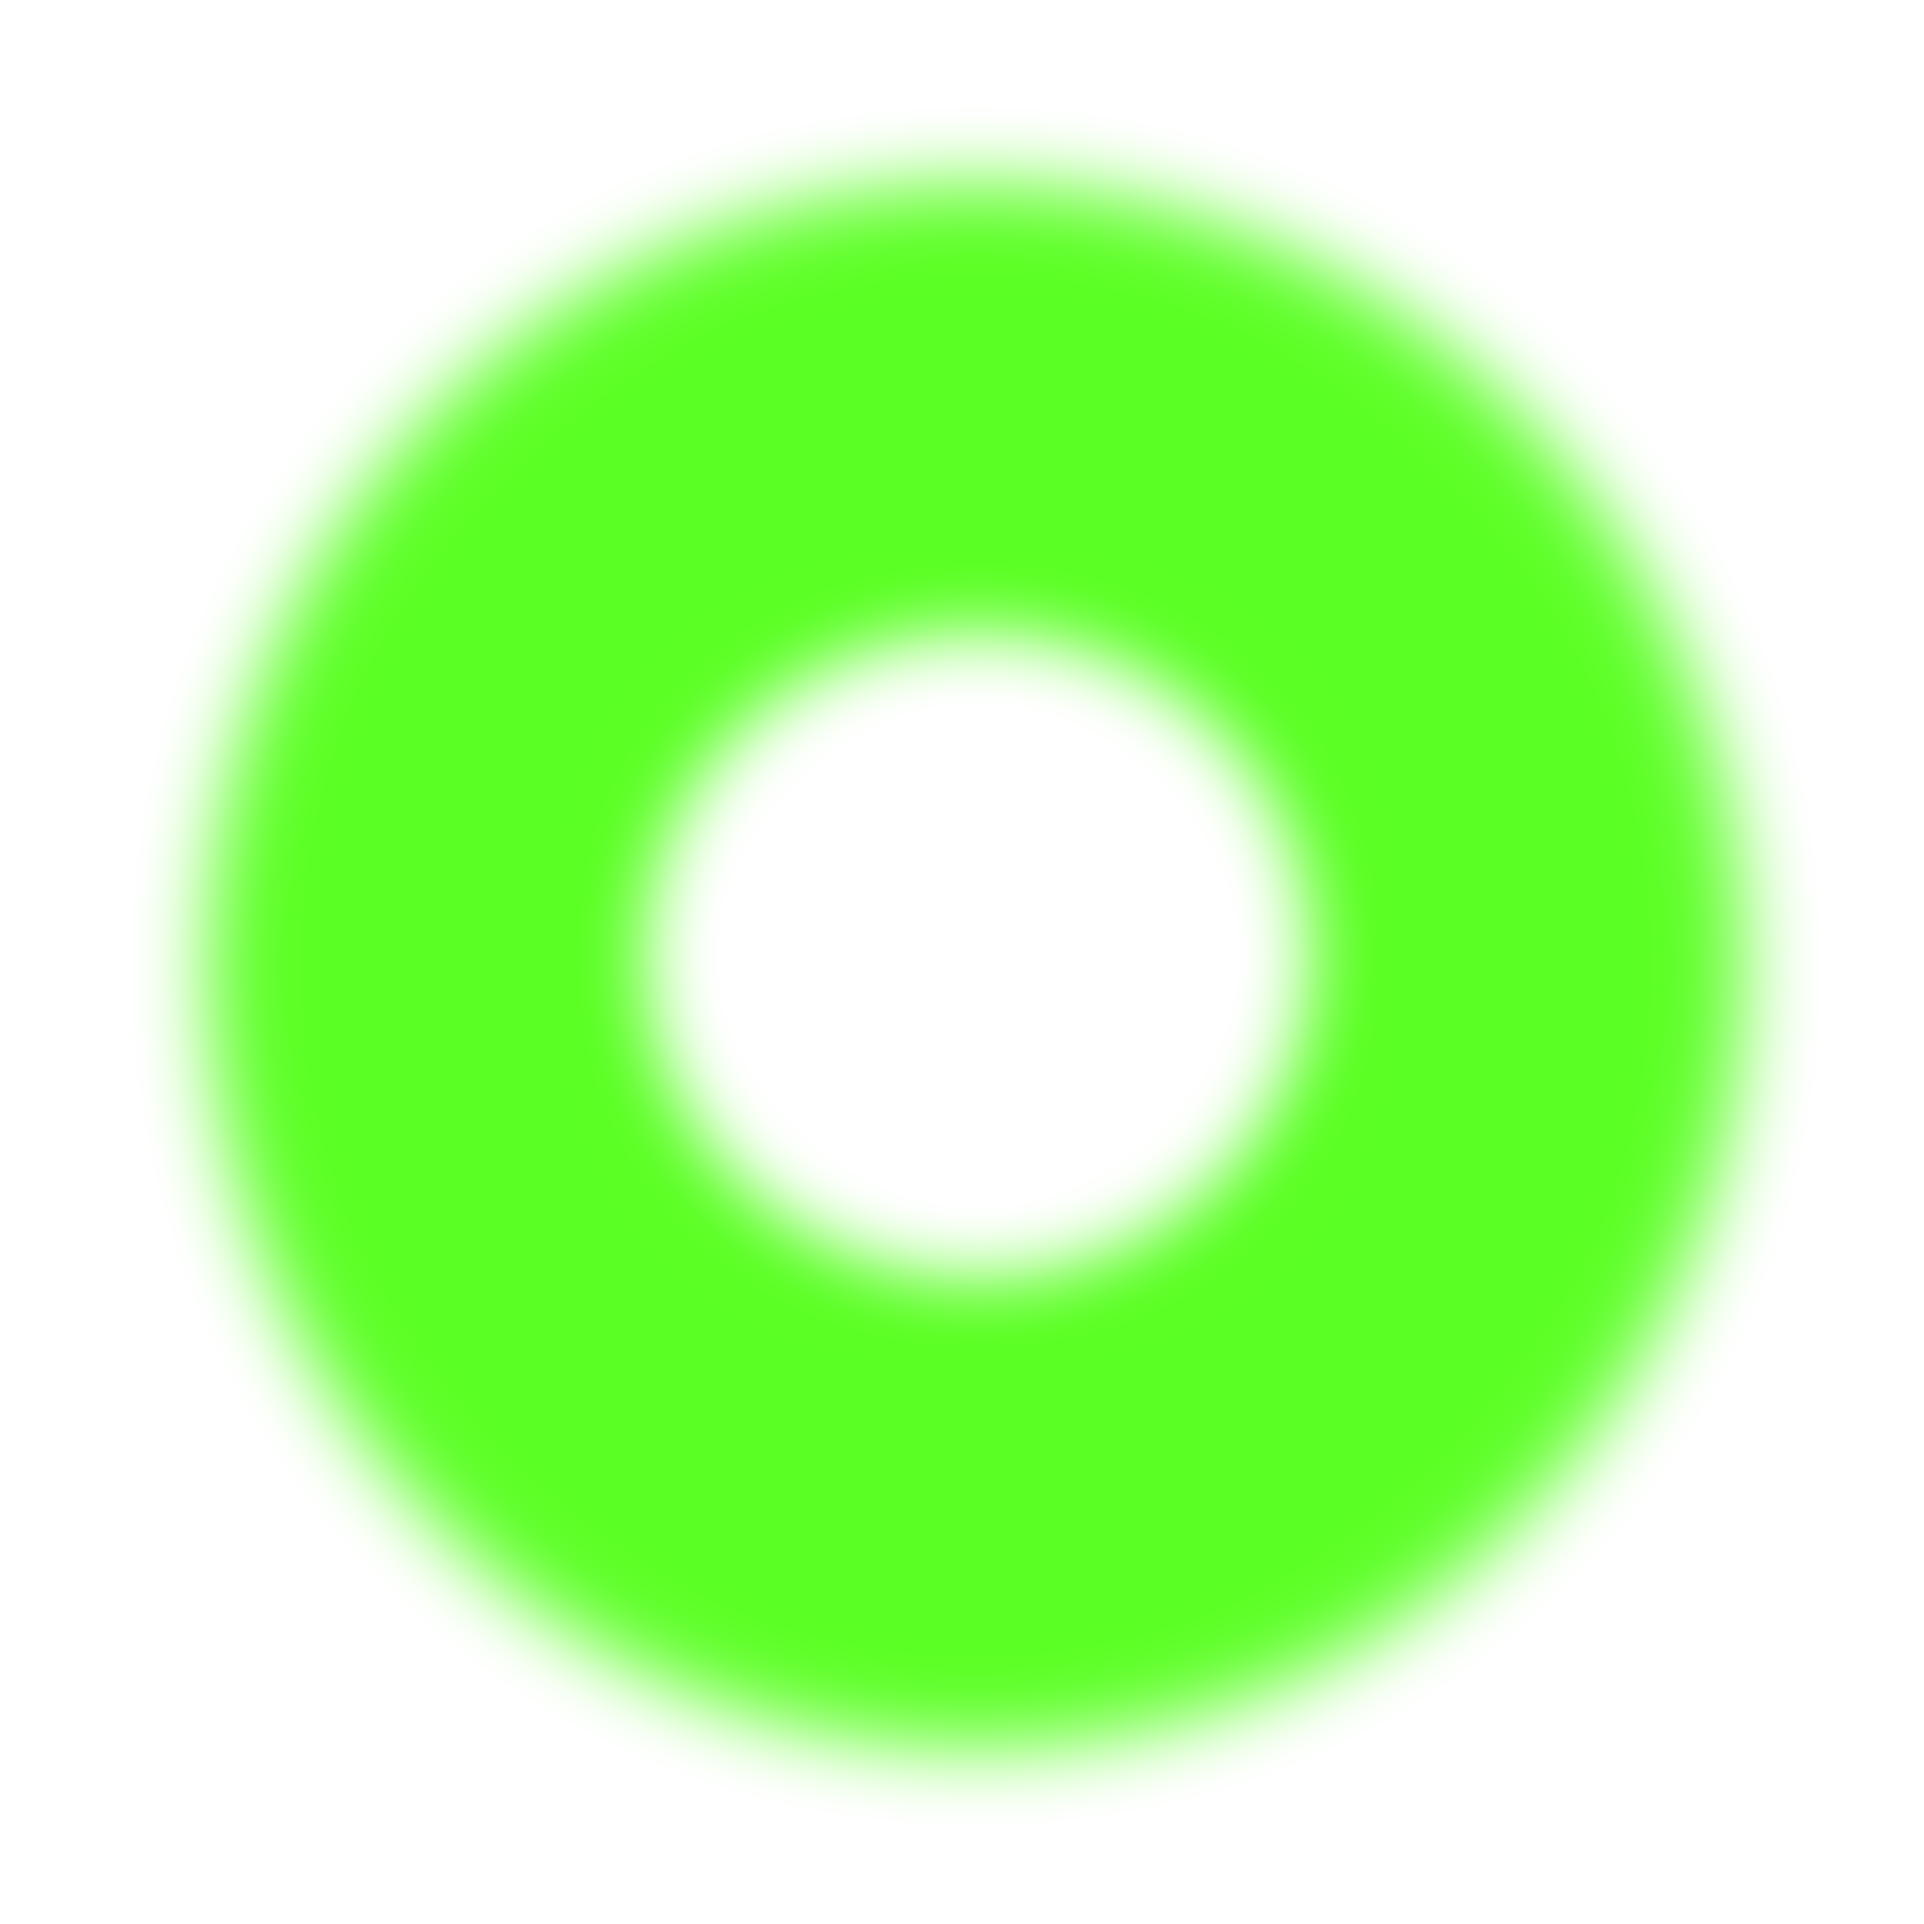
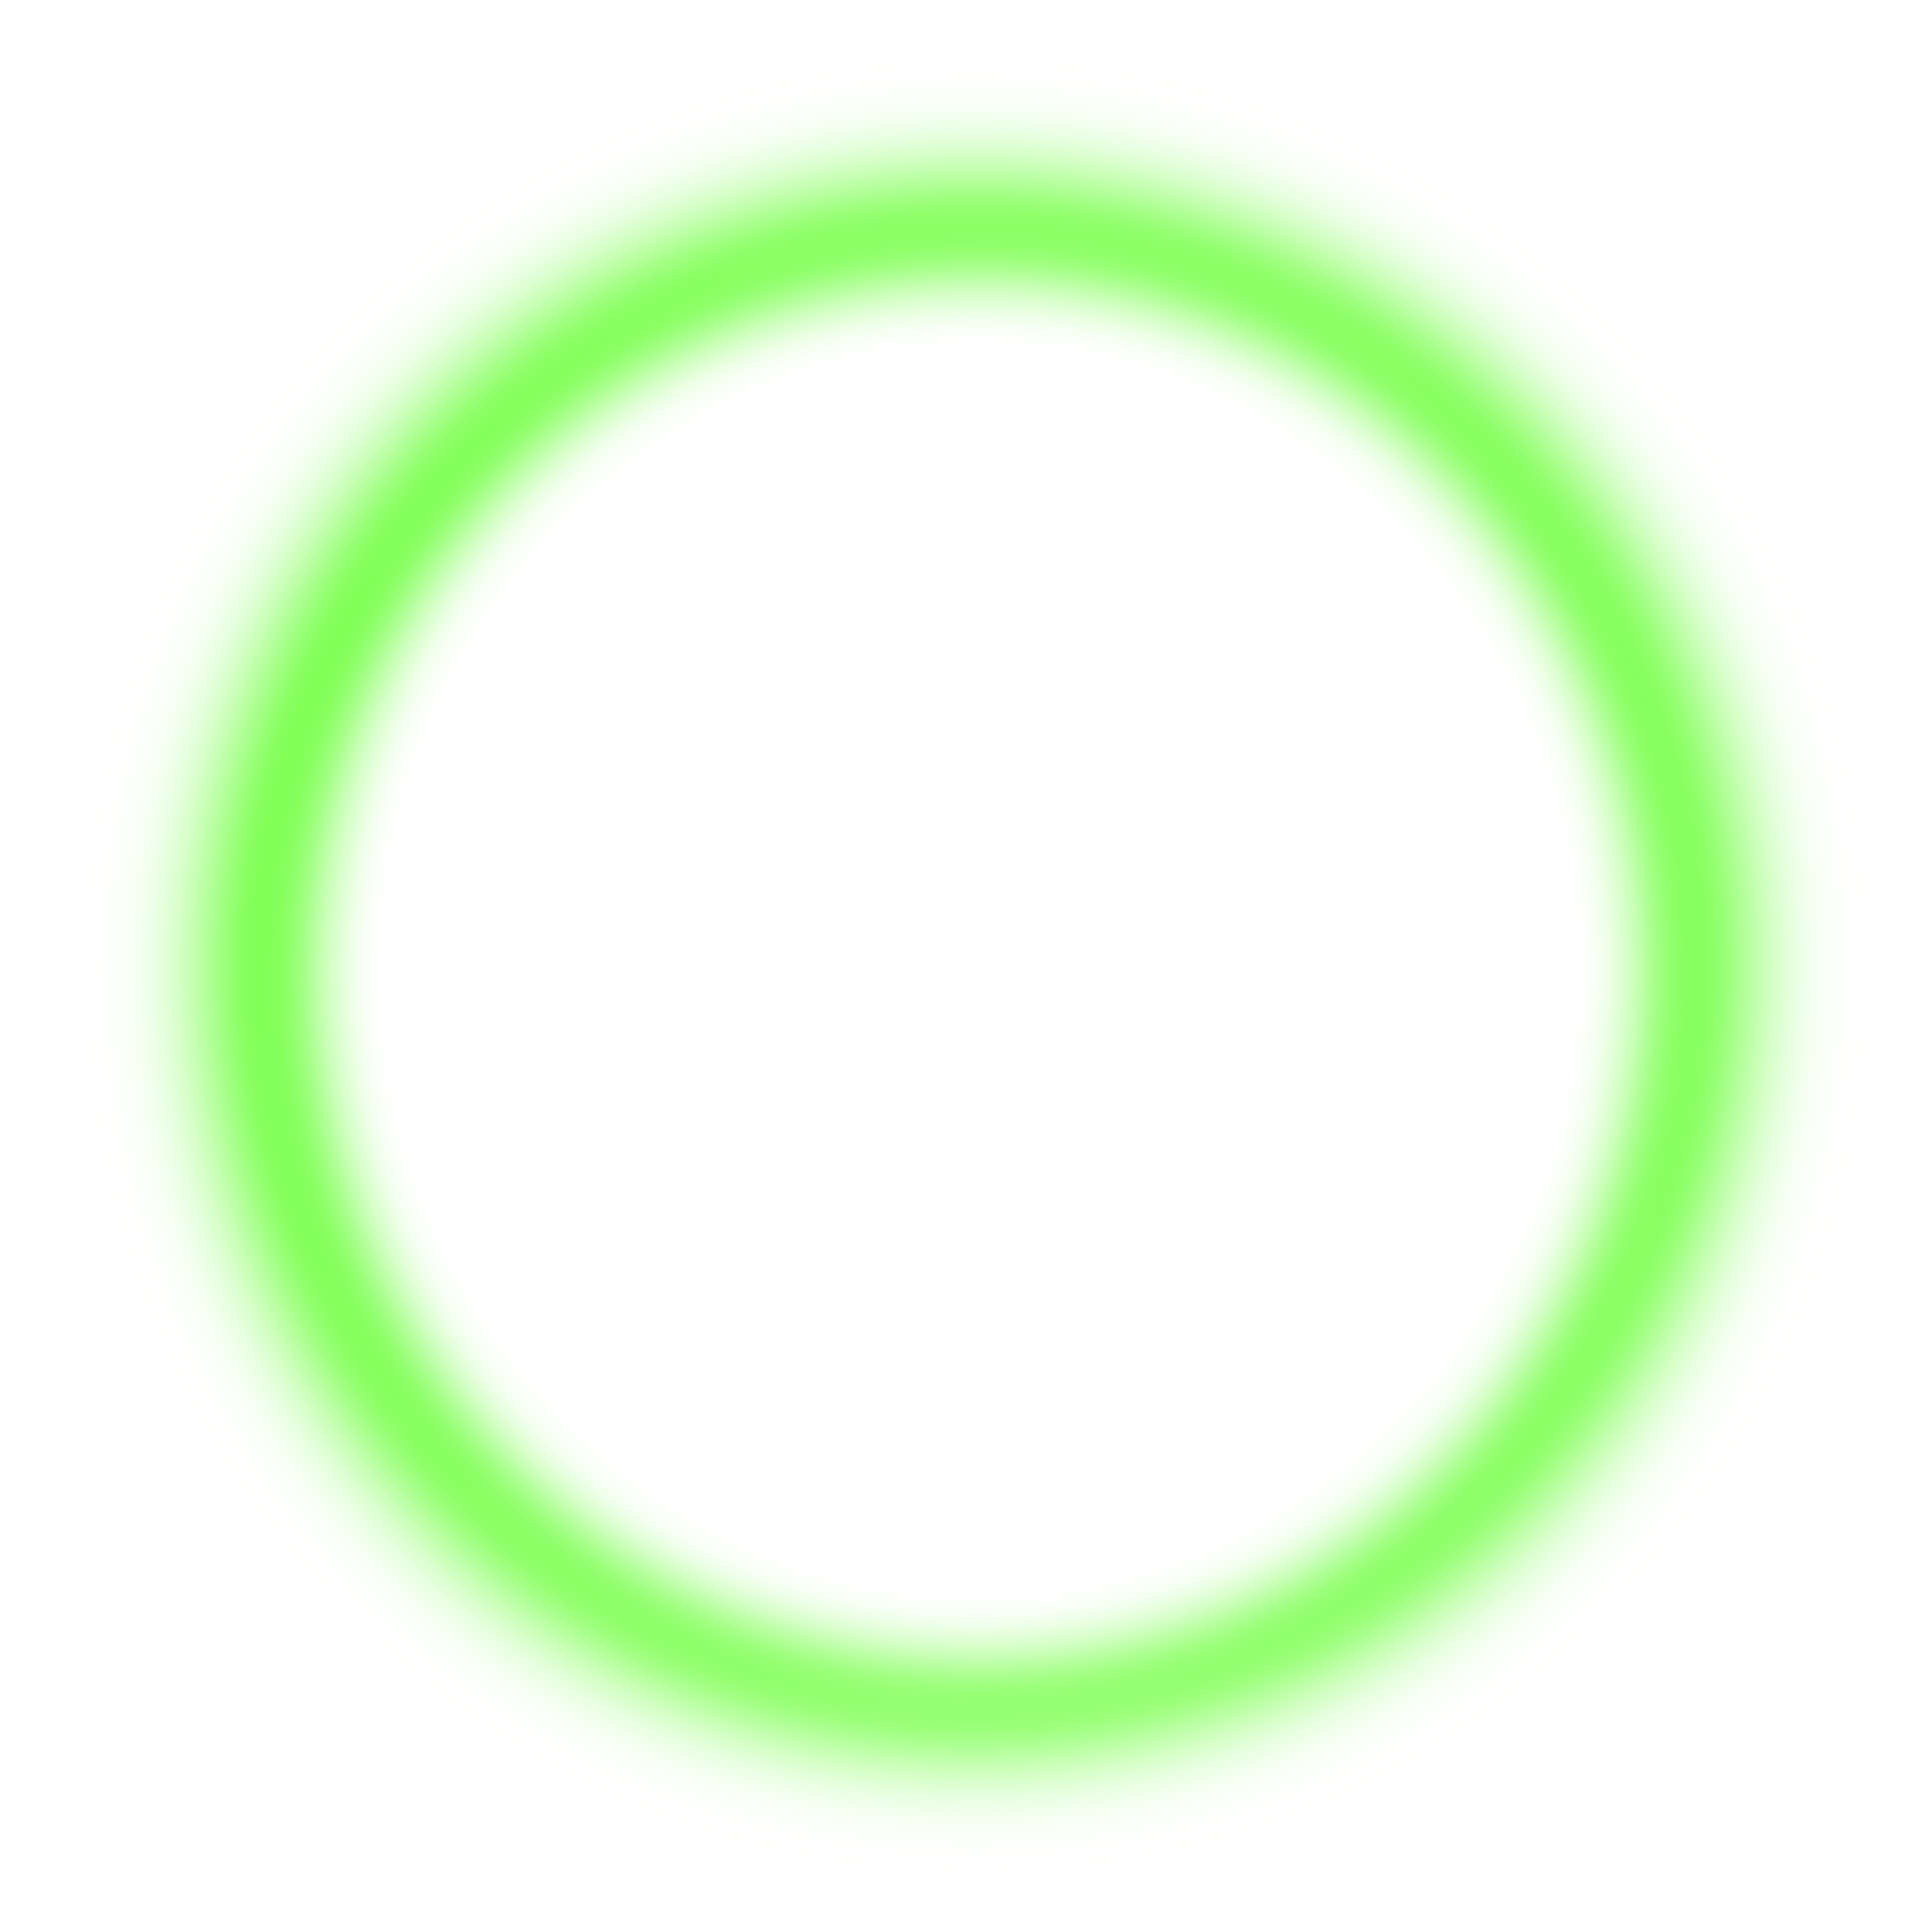
Updated map ping
Thinned ping line
Fixed offset
Added fade

diff --git a/Assets/Scripts/MapPing.cs b/Assets/Scripts/MapPing.cs
@@ -4,29 +4,53 @@ using System.Collections;
 public class MapPing : MonoBehaviour {
 
     float startScale = 0.1f;
-    float endScale = 15.0f;
+    float endScale = 3.0f;
     Vector3 startScaleVec, endScaleVec;
-    Vector3 scaleGrowth = new Vector3(0.1f, 0.1f, 0);
+    Vector3 scaleGrowth = new Vector3(0.06f, 0.06f, 0);
+    SpriteRenderer rend;
+
+    bool fading = false;
+
 	// Use this for initialization
 	void Start ()
-    {
+    {      
         startScaleVec = new Vector3(startScale, startScale, transform.localScale.z);
         endScaleVec = new Vector3(endScale, endScale, transform.localScale.z);
 	}
 
     void OnEnable()
     {
+        rend = GetComponent<SpriteRenderer>();
         transform.localScale = startScaleVec;
     }
 	
 	// Update is called once per frame
 	void FixedUpdate ()
     {
-        transform.localScale += scaleGrowth;
-        if(transform.localScale.magnitude > endScaleVec.magnitude)
+        if(!fading)
         {
-            transform.localScale = startScaleVec;
-        }
+            transform.localScale += scaleGrowth;
+            if (transform.localScale.magnitude > endScaleVec.magnitude)
+            {
+                fading = true;
+                StartCoroutine(FadeAndRestart());
+            }
+        }     
+    }
 
+    IEnumerator FadeAndRestart()
+    {
+        Color fadeColor = rend.color;
+        while(rend.color.a > 0)
+        {
+            fadeColor.a -= 0.1f;
+            rend.color = fadeColor;
+            yield return new WaitForSeconds(0.05f); 
+        }      
+        transform.localScale = startScaleVec;
+        fadeColor.a = 1;
+        rend.color = fadeColor;
+        fading = false;
+        yield return null;
     }
 }
